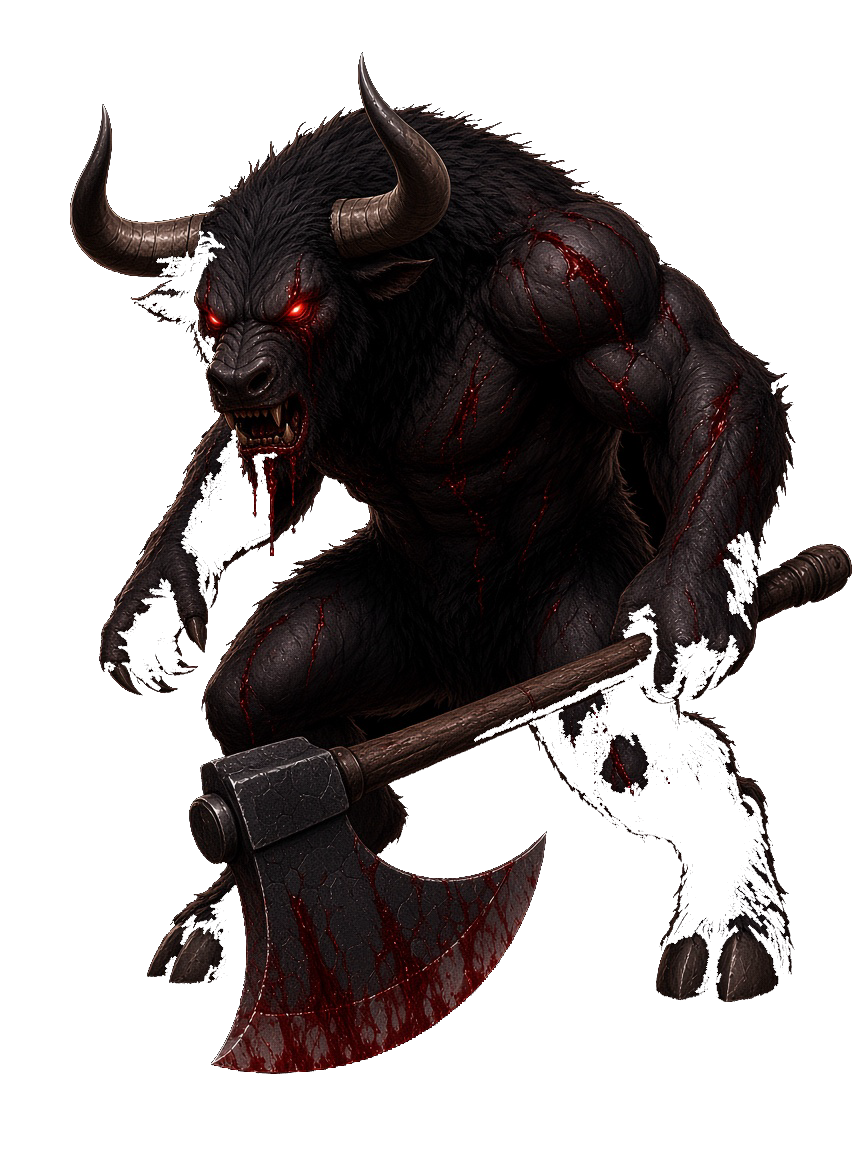
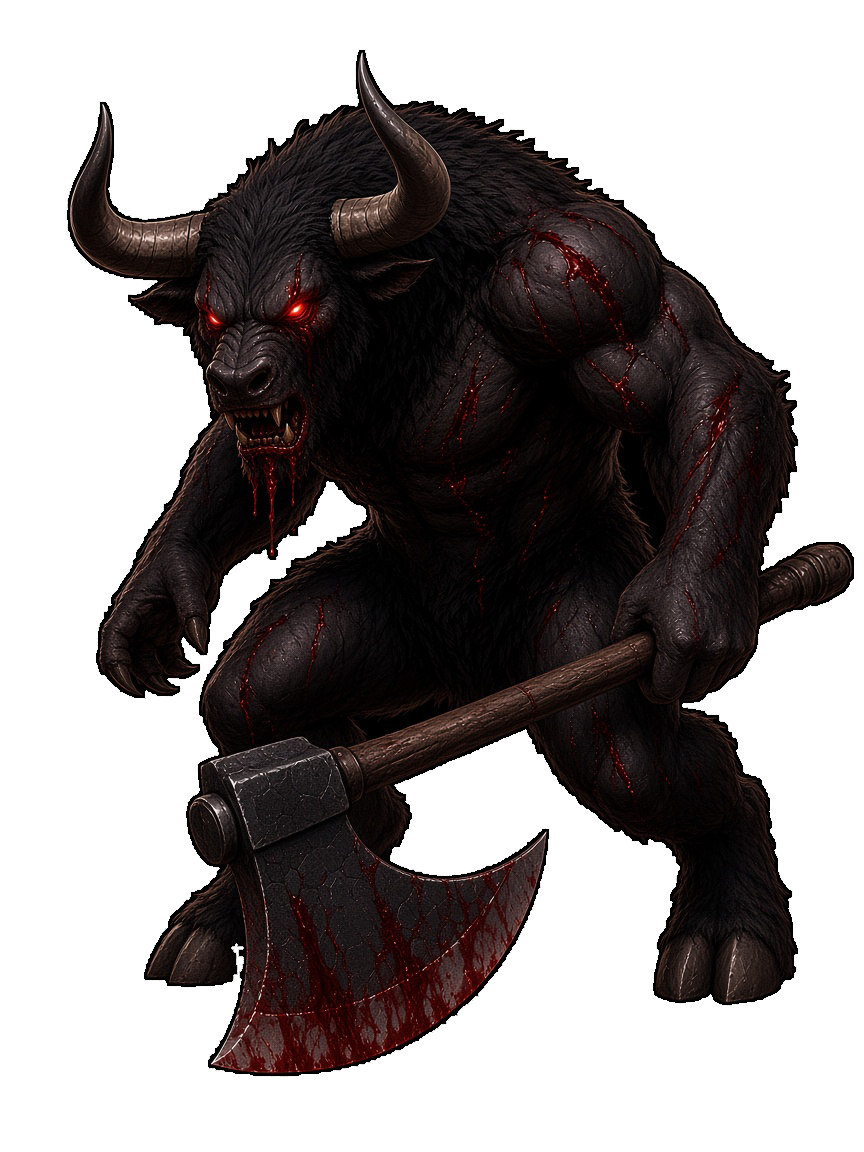
ミノタウロスの黒い毛を透過で消さない。
平らな背景の黒だけを抜き、腕と斧は残す。

diff --git a/index.html b/index.html
@@ -9782,7 +9782,7 @@
       },
       {
         name: "ミノタウロス",
-        image: "enemy-minotaur.png?v=10",
+        image: "enemy-minotaur.png?v=11",
         tier: 3,
         rank: "強敵",
         stature: "huge",
@@ -10936,7 +10936,7 @@
       "enemy-slime.png": { w: 864, h: 1152, top: 88, bottom: 64, left: 29, right: 857 },
       "enemy-goblin.png": { w: 864, h: 1152, top: 20, bottom: 38, left: 15, right: 825 },
       "enemy-kobold.png": { w: 864, h: 1152, top: 30, bottom: 18, left: 146, right: 701 },
-      "enemy-minotaur.png": { w: 864, h: 1152, top: 52, bottom: 78, left: 70, right: 851 },
+      "enemy-minotaur.png": { w: 864, h: 1152, top: 50, bottom: 75, left: 67, right: 853 },
       "enemy-dragon.png": { w: 864, h: 1152, top: 123, bottom: 154, left: 33, right: 863 },
       "enemy-troll.png": { w: 864, h: 1152, top: 64, bottom: 29, left: 27, right: 863 },
       "enemy-beggar.png": { w: 864, h: 1152, top: 30, bottom: 32, left: 94, right: 718 },
@@ -16406,7 +16406,7 @@
               ${sheetFig("enemy-goblin.png?v=10", "ゴブリン", "enemy-ref")}
               ${sheetFig("enemy-kobold.png?v=5", "コボルド", "enemy-ref")}
               ${sheetFig("enemy-troll.png?v=4", "トロール", "enemy-ref")}
-              ${sheetFig("enemy-minotaur.png?v=10", "ミノタウロス", "enemy-ref")}
+              ${sheetFig("enemy-minotaur.png?v=11", "ミノタウロス", "enemy-ref")}
               ${sheetFig("enemy-dragon.png?v=6", "ちびドラゴン", "enemy-ref")}
               ${sheetFig("enemy-death-dragon.png?v=1", "デスドラゴン", "enemy-ref")}
               ${sheetFig("enemy-beggar.png?v=4", "物乞い", "enemy-ref")}
